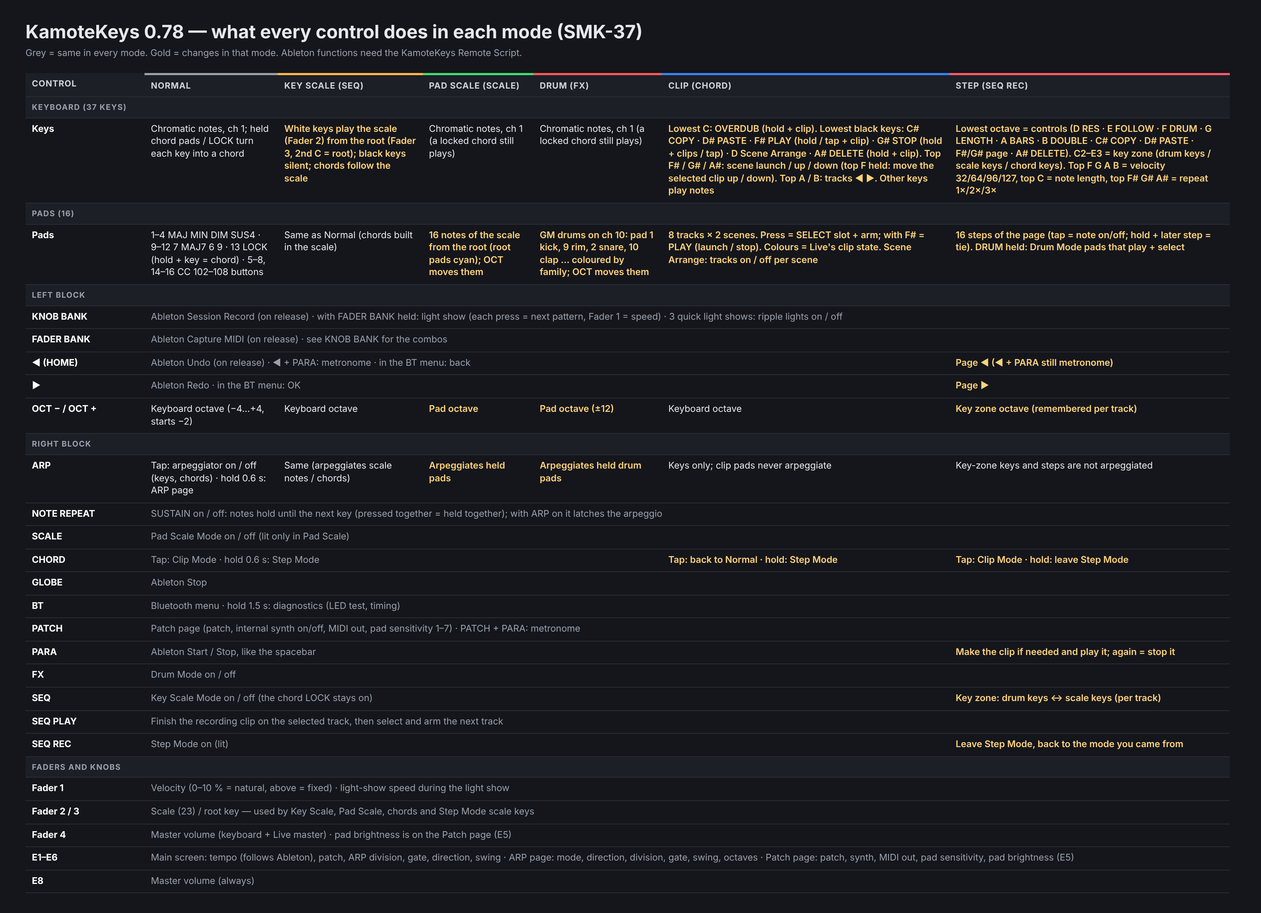
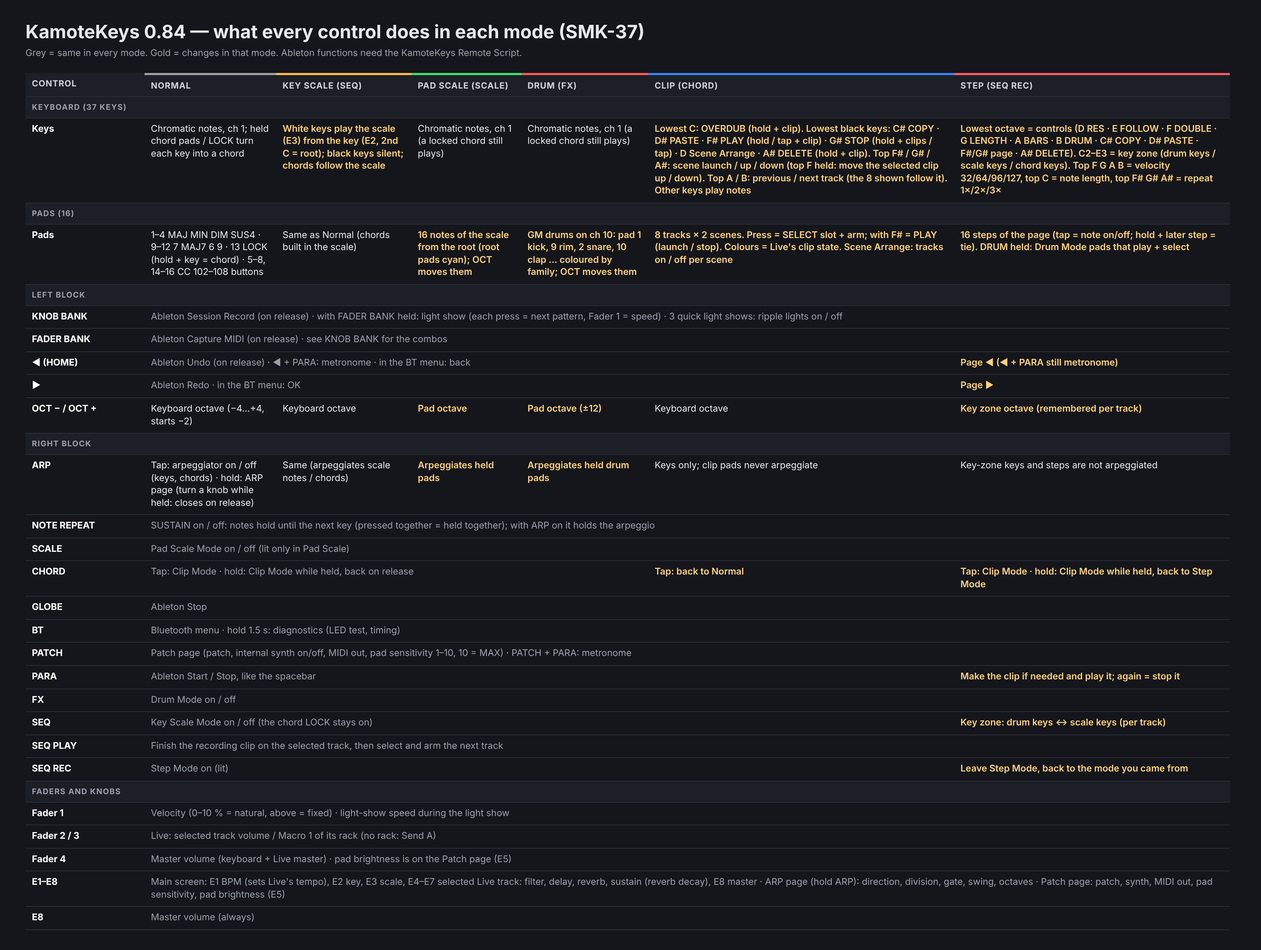
Docs for 0.80-0.84: knobs, faders, hold CHORD, track names, effects, AUTO port
README, HOW_TO_USE, MIDI_MAPPING, ABLETON_REMOTE_SCRIPT, FM1, TESTING,
CHANGELOG and the SMK-37 diagrams.

Claude-Session: https://claude.ai/code/session_014nKCDtX9z2HT4cnrjTFgfW

diff --git a/README.md b/README.md
@@ -85,12 +85,12 @@ Diagrams: [all controls](docs/diagrams/SMK37-Controls.png) · [every control in 
 
 | Button | Short press | Hold |
 |---|---|---|
-| ARP | ARP on/off | 0.6 s: ARP settings page |
-| NOTE REPEAT | **SUSTAIN** on/off: notes hold until the next key; with ARP on it latches the arpeggio | |
+| ARP | ARP on/off | 0.6 s: ARP settings page. Turn a knob while holding: the page closes on release; let go without turning: it stays open (tap ARP to close) |
+| NOTE REPEAT | **SUSTAIN** on/off: notes hold until the next key; with ARP on it holds the arpeggio | |
 | SCALE | Pad Scale Mode on/off | |
-| CHORD | **Clip Mode** on/off (8 × 2 Ableton clip launcher) | 0.6 s: **Step Mode** (same as SEQ REC) |
+| CHORD | **Clip Mode** on/off (8 × 2 Ableton clip launcher) | **Clip Mode while held**: back to the previous mode on release (also after a quick CHORD + pad) |
 | GLOBE | Ableton **Stop** (CC 21) | |
-| BT | Open/close the Bluetooth menu | 1.5 s: diagnostics |
+| BT | Open/close the Bluetooth menu | 1.5 s: diagnostics (incl. the battery reading) |
 | PATCH | Open/close the patch page | |
 | PARA | Ableton **Start / Stop**, like the spacebar (CC 23). In Step Mode: make the clip and play / stop it | |
 | PATCH + PARA (or ◀ + PARA) | Ableton **metronome** on/off (CC 26) | |
@@ -100,7 +100,7 @@ Diagrams: [all controls](docs/diagrams/SMK37-Controls.png) · [every control in 
 | SEQ REC | **Step Mode** on/off (drum step sequencer) | |
 | KNOB BANK | Ableton **Session Record** (CC 25, sent on release) | |
 | FADER BANK | Ableton **Capture MIDI** (CC 22, sent on release) | |
-| KNOB BANK + FADER BANK | **Light show** while held; each new press = next pattern | 3 quick presses: **ripple lights** on/off |
+| KNOB BANK + FADER BANK | **Light show** while held; each new press = next pattern | 3 quick presses: **ripple lights** on/off (a giant ring from the middle when they turn on) |
 | ◀ LEFT (HOME) | Ableton **Undo** (CC 24, sent on release so ◀ + PARA can toggle the metronome). In the BT menu: HOME (back) | |
 | RIGHT ▶ | Ableton **Redo** (CC 27). In the BT menu: SAVE (OK) | |
 | OCT − / OCT + | Octave −4 … +4. Keyboard starts at **−2**; in Pad Scale/Drum Mode they move the pad octave (starts at 0) | |
@@ -112,8 +112,8 @@ All Ableton commands are on **MIDI channel 15**. The pad map and the button-inde
 | Fader | Function |
 |---|---|
 | 1 | **Velocity.** 0–10 %: natural key/pad velocity. Above 10 %: fixed velocity proportional to position, 100 % = 127. Applies to keys, Key Scale, Pad Scale, Drum pads and ARP. It is read at Note On only and never changes sounding notes or Note Off. **During the light show:** its speed. |
-| 2 | **Scale** (23 scales, bottom = Major, top = Minor 6-Diminished), with 2-count hysteresis against ADC noise. |
-| 3 | **Root key** C … B, with hysteresis. |
+| 2 | **Live: volume of the selected track** (CC 38, needs the Remote Script; top = 0 dB). |
+| 3 | **Live: Macro 1** of the selected track's first device when it is a rack, otherwise its **Send A** (CC 39). |
 | 4 | **Master volume** (0.77): the keyboard's internal sound and, with the Remote Script, Live's master track (top = 0 dB). The E8 knob also sets the internal master. **Pad brightness** is on the Patch page (E5, 16 steps, saved; ≤ 10 % also dims the LCD). |
 
 Scales: Major, Natural Minor, Dorian, Phrygian, Lydian, Mixolydian, Locrian, Harmonic Minor, Melodic Minor, Major Pentatonic, Minor Pentatonic, Blues, Phrygian Dominant, Double Harmonic, Hirajoshi, Whole Tone, Diminished Whole-Half, Diminished Half-Whole, Bebop Dominant, Bebop Major, Bebop Minor, 6-Diminished, Minor 6-Diminished. One shared engine ([`kk_theory.c`](core/kamotkeys/kk_theory.c)) serves the keys, pads, chords, LEDs and display.
@@ -162,15 +162,15 @@ The **second physical C** plays the selected tonic, at octave 0 the tonic in the
 
 ### Clip Mode (CHORD)
 
-Pads 1–8 launch clip 1 and pads 9–16 clip 2 of Live tracks 1–8, on channel 16, with LEDs that follow Live (empty very dim, stopped dim blue, playing green, queued blinking amber, recording red). Needs the [KamoteKeys Remote Script](docs/ABLETON_REMOTE_SCRIPT.md). A plain pad press **selects** the slot and arms its track (so KNOB BANK records there); **F#** is **PLAY**: hold it and press clips to launch / stop them, or tap it and the next clip pressed is launched. Hold the **top F** + top G# / A# to move Live's selected clip a scene up / down. Hold the **lowest C** + a clip to **overdub** into it. Lowest black keys: **C# COPY**, **D# PASTE** (tap = next pad, hold = several), F# PLAY, **G# STOP** (hold + clips, or tap: the selected clip), **A# DELETE** (hold + clip); low **D = Scene Arrange** (tap pads to choose which tracks play in each scene; top F# launches exactly those); white **top A / B** move the 8-track view; top **F# / G# / A#** = scene launch / up / down. The screen shows what is copied. Live's highlighted slot is **violet**. Full guide: [docs/ABLETON_REMOTE_SCRIPT.md](docs/ABLETON_REMOTE_SCRIPT.md), [diagram](docs/diagrams/SMK37-Clip-Mode.png).
+Pads 1–8 launch clip 1 and pads 9–16 clip 2 of Live tracks 1–8, on channel 16, with LEDs that follow Live (empty very dim, stopped dim blue, playing green, queued blinking amber, recording red). Needs the [KamoteKeys Remote Script](docs/ABLETON_REMOTE_SCRIPT.md). A plain pad press **selects** the slot and arms its track (so KNOB BANK records there); **F#** is **PLAY**: hold it and press clips to launch / stop them, or tap it and the next clip pressed is launched. Hold the **top F** + top G# / A# to move Live's selected clip a scene up / down. Hold the **lowest C** + a clip to **overdub** into it. Lowest black keys: **C# COPY**, **D# PASTE** (tap = next pad, hold = several), F# PLAY, **G# STOP** (hold + clips, or tap: the selected clip), **A# DELETE** (hold + clip); low **D = Scene Arrange** (tap pads to choose which tracks play in each scene; top F# launches exactly those); white **top A / B** select the previous / next track (the 8-track view follows when the selection leaves it: going left the track becomes the first of the 8, going right the last); top **F# / G# / A#** = scene launch / up / down. **Hold CHORD** from any mode for Clip Mode only while held. The screen shows the clip state, Live's selected track (number and name, big), the scene and the 8 tracks in view, and what is copied; the pad map shows each pad's track number and the start of its name. Live's highlighted slot is **violet**. Full guide: [docs/ABLETON_REMOTE_SCRIPT.md](docs/ABLETON_REMOTE_SCRIPT.md), [diagram](docs/diagrams/SMK37-Clip-Mode.png).
 
-### Step Mode (SEQ REC, or hold CHORD)
+### Step Mode (SEQ REC)
 
-A step sequencer that writes straight into the selected session clip in Live, laid out like Ableton Move: 16 pads = 16 steps per page; the **second octave = drum keys** (C = kick … B): a key plays its sound and selects it for the steps. **OCT −/+** moves those keys by an octave and **SEQ** turns them into scale keys (for melodic tracks); both are remembered per track. The **lowest octave = controls** (white: RESOLUTION, FOLLOW, DRUM, LENGTH + pad = bars, BARS; black: COPY, PASTE, page ◀ ▶, DELETE); **PARA** makes and plays / stops the clip; leaving Step Mode returns to the mode you came from; the key zone runs from C2 to E3; **top F G A B = velocity 32 / 64 / 96 / 127**, **hold the top C** to set the note length on the pads, the **top three black keys = 1× / 2× / 3× repeats** (hold + a pad). A chord locked on the main screen is written into the steps as a chord. Other sounds on a step show as a violet tint; the screen shows the bar the clip is playing. The sequenced track is armed while Step Mode is on. Needs the Remote Script; full guide in [docs/ABLETON_REMOTE_SCRIPT.md](docs/ABLETON_REMOTE_SCRIPT.md#step-mode-drum-step-sequencer-058).
+A step sequencer that writes straight into the selected session clip in Live, laid out like Ableton Move: 16 pads = 16 steps per page; the **second octave = drum keys** (C = kick … B): a key plays its sound and selects it for the steps. **OCT −/+** moves those keys by an octave and **SEQ** turns them into scale keys (for melodic tracks); both are remembered per track. The **lowest octave = controls** (white: RESOLUTION, FOLLOW, DOUBLE (F), LENGTH + pad = bars, BARS, DRUM (B, hold); black: COPY, PASTE, page ◀ ▶, DELETE); **PARA** makes and plays / stops the clip; leaving Step Mode returns to the mode you came from; the key zone runs from C2 to E3; **top F G A B = velocity 32 / 64 / 96 / 127**, **hold the top C** to set the note length on the pads, the **top three black keys = 1× / 2× / 3× repeats** (hold + a pad). A chord locked on the main screen is written into the steps as a chord. Other sounds on a step show as a violet tint; the screen shows the bar the clip is playing. The sequenced track is armed while Step Mode is on. Needs the Remote Script; full guide in [docs/ABLETON_REMOTE_SCRIPT.md](docs/ABLETON_REMOTE_SCRIPT.md#step-mode-drum-step-sequencer-058).
 
 ### Pad Scale Mode (SCALE)
 
-All 16 pads play consecutive scale degrees in pad order (pad 1 = tonic at octave 3, e.g. D3), following Fader 2/3 and the octave buttons. Channel 1. Root pads are **cyan** and the other pads **green**, both dim when idle and bright when pressed. The screen shows the note, root, scale and octave in a 2 × 8 pad map. The keyboard keeps playing chromatically.
+All 16 pads play consecutive scale degrees in pad order (pad 1 = tonic at octave 3, e.g. D3), following the key (E2), the scale (E3) and the octave buttons. Channel 1. Root pads are **cyan** and the other pads **green**, both dim when idle and bright when pressed. The screen shows the note, root, scale and octave in a 2 × 8 pad map. The keyboard keeps playing chromatically.
 
 ### Drum Mode (FX)
 
@@ -182,7 +182,7 @@ All 16 pads send drum notes on **channel 10**. The layout is vertical: pad 1 = 3
 
 - Normal and Key Scale: arpeggiates held keys, including generated chords.
 - Pad Scale: arpeggiates held pads (channel 1). Drum: arpeggiates held drum pads (channel 10).
-- Parameters (ARP page, or the main-screen knobs): **Mode** NORMAL/LATCH, **Direction** UP, DOWN, UP-DOWN, RANDOM, ORDER (as played), **Division** 1/4, 1/8, 1/8T, 1/16, 1/16T, 1/32 (default 1/8), **Gate** 10–100 % (default 75 %), **Swing** 0–50 %, **Octaves** 1–4.
+- Parameters (ARP page: hold ARP): **Direction** UP, DOWN, UP-DOWN, RANDOM, ORDER (as played), **Division** 1/4, 1/8, 1/8T, 1/16, 1/16T, 1/32 (default 1/8), **Gate** 10–100 % (default 75 %), **Swing** 0–50 %, **Octaves** 1–4.
 - Toggling ARP while notes are held moves them safely between direct play and the arpeggiator.
 
 **Sustain** (the NOTE REPEAT button, 0.54): tap to turn it on (LED bright, SUSTAIN in the status line), tap again to turn it off.
@@ -190,7 +190,7 @@ All 16 pads send drum notes on **channel 10**. The layout is vertical: pad 1 = 3
 - Keys **pressed together, or added while others are still held, are sustained together**.
 - Chord-modifier pads (MAJ, MIN, …) do not end the held notes; a mode change or Sustain off releases them.
 - KamoteKeys holds the notes itself, so the synth and Ableton see long notes (no CC 64). A real **sustain pedal** still sends CC 64.
-- **With ARP on**, the same rule latches the arpeggio: it keeps playing after you let go, and the next key or chord replaces it.
+- **With ARP on**, the same rule holds the arpeggio: it keeps playing after you let go, and the next key or chord replaces it. This is the only way to hold an arpeggio (there is no separate LATCH mode).
 
 KamoteKeys turns off the SMK37 OPEN engine's own per-track ARP so that notes are never doubled.
 
@@ -200,14 +200,16 @@ Encoders are numbered E1–E8, left to right; SMK37 OPEN calls them K1–K4, SEL
 
 | Knob | Main screen | ARP page | Patch page | BT menu |
 |---|---|---|---|---|
-| E1 | BPM (30–300) | Mode | Patch | Bluetooth on/off |
-| E2 | Patch (DX7 1–128) | Direction | Internal synth on/off | BT audio on/off |
-| E3 | ARP division | Division | MIDI OUT ports | BLE role DEVICE/HOST |
-| E4 | ARP gate | Gate | Pad sensitivity 1–7 | Clock INT/MIDI |
-| E5 | ARP direction | Swing | | Host list: device |
-| E6 | ARP swing | Octaves | | |
-| E7 | — | | | Action |
+| E1 | BPM (30–300; with Live connected it sets Live's tempo) | — | Patch | Bluetooth on/off |
+| E2 | **Key** (root C … B) | Direction | Internal synth on/off | BT audio on/off |
+| E3 | **Scale** (23 scales) | Division | MIDI OUT ports | BLE role DEVICE/HOST |
+| E4 | **Filter** of the selected Live track (left low-pass, centre open, right high-pass) | Gate | Pad sensitivity 1–10 (10 = MAX, default) | Clock INT/MIDI |
+| E5 | **Delay** amount (selected track) | Swing | Pad brightness | Host list: device |
+| E6 | **Reverb** amount (selected track) | Octaves | | |
+| E7 | **Sustain** = reverb decay (selected track) | | | Action |
 | E8 | **Master volume** (always) | | | |
+
+E4–E7 need the Remote Script. It finds the effects on Live's selected track by type (also inside racks): Auto Filter; Delay, Echo, Ping Pong, Filter, Simple or Grain Delay; Reverb or Hybrid Reverb. The screen shows the new value, or `NO REVERB` etc. when the track has none. Hold **ARP** to edit the ARP settings with the knobs.
 
 Changes on the main screen appear as a short message in the status line.
 
@@ -216,7 +218,7 @@ Changes on the main screen appear as a short message in the status line.
 | | |
 |---|---|
 | ![Bubbles boot](docs/diagrams/SMK37-Boot.gif) | **Bubbles boot** (0.78, ~1.7 s): white piano keys drop in and bounce, flat jewel-coloured bubbles (ruby, amber, gold, emerald, teal, sapphire, indigo, amethyst) pop up behind them, the black keys pop, one colour sweep runs over the keys and "KamoteKeys" pops in letter by letter in warm white. The pads light in the bubble colours. |
-| ![Chord](docs/screenshots/07_main_chord_G7.png) | **Main screen:** version label, mode, octave, BPM, the chord or note name, root and scale, the piano, and ARP/Sustain/velocity status. The piano follows the **actual MIDI note list**: a single note lights one key (green); in a chord the root is cyan and the other tones orange. The view re-centres with a ~110 ms ease-out pixel scroll that can redirect mid-move. Key Scale Mode adds dots for scale degrees. |
+| ![Chord](docs/screenshots/07_main_chord_G7.png) | **Main screen:** version label, battery gauge (a bolt on USB power), mode, octave, BPM, the chord or note name, root and scale, the piano, and ARP/Sustain/velocity status. The piano follows the **actual MIDI note list**: a single note lights one key (green); in a chord the root is cyan and the other tones orange. The view re-centres with a ~110 ms ease-out pixel scroll that can redirect mid-move. Key Scale Mode, and Normal Mode while nothing sounds, mark the scale notes under the keys (root cyan). |
 | ![Pad scale](docs/screenshots/04_pad_scale.png) | **Pad Scale / Drum:** a 2 × 8 pad map with note names or drum labels and live highlights. |
 | ![BT](docs/screenshots/12_bluetooth_menu.png) | **Bluetooth menu:** SMK37 OPEN's standard menu (see below). |
 
@@ -239,7 +241,7 @@ Button LEDs are single-colour on/off LEDs. KamoteKeys adds a **dim** level (1/8 
 - ARP, NOTE REPEAT (Sustain), SCALE, SEQ, FX and CHORD stay bright while their function or mode is active, and **SCALE shows only Pad Scale, SEQ shows only Key Scale**;
 - KNOB BANK and FADER BANK light while pressed or while the light show runs; SEQ REC in Step Mode; BT while its menu is open;
 
-**Ripple lights**: start the light show **three times quickly** (KNOB BANK + FADER BANK, within about 1 s) to toggle them. The pads and keys keep working normally, and every press sends a coloured ring across the pads from where you pressed (keys map left to right onto the pad columns). Not saved.
+**Ripple lights**: start the light show **three times quickly** (KNOB BANK + FADER BANK, within about 1 s) to toggle them; turning them on sends a giant rainbow ring out from the middle. The pads and keys keep working normally, and every press flashes white where you pressed and sends a wide coloured ring (with an inner echo ring) across the pads (keys map left to right onto the pad columns). Not saved.
 
 **Light show** (hold KNOB BANK + FADER BANK together; each new press of the second one selects the next pattern; nothing is sent to Ableton): Rainbow sweep, Vertical pulse, Spiral/perimeter chase, Checkerboard, Diagonal wave, Breathing colours, Opposing chases, Colour wave. While it runs the pads send no MIDI, Fader 1 sets the speed (about 0.03–2 cycles per second; 0 % = 1 per second); brightness follows the Patch page setting. Changing the speed never restarts the pattern.
 
@@ -262,7 +264,7 @@ While the menu is open, ◀ and ▶ do not send Undo/Redo, and their releases ar
 
 | Setting | Behaviour |
 |---|---|
-| **AUTO** (default) | USB if USB MIDI is connected, otherwise BLE. A Mac connected both ways never receives each command twice. |
+| **AUTO** (default) | The port the computer talks on: the one the KamoteKeys Remote Script answers on, else the last port anything arrived on; with no traffic yet, USB if connected, otherwise BLE. A USB cable that only charges does not take the notes away from Bluetooth, and a Mac connected both ways never receives each command twice. |
 | ALL | USB and BLE (and DIN where fitted). |
 | USB / BLE | That port only. |
 
@@ -291,7 +293,7 @@ Note Offs always go to every port, so a port change between Note On and Note Off
 
 ## Saved settings
 
-Saved automatically, about 1.5 s after the last change and only while nothing is playing, in SMK37 OPEN's journaled settings sector: **BPM, ARP on/off, mode, direction, division, gate, swing, octaves, DX7 patch, MIDI OUT ports, internal synth on/off, pad LED timing, pad sensitivity, pad brightness**. The **octave is not saved**: keys start at −2 and pads at 0 on every power-on. Scale, root and velocity come from Faders 1–3; Fader 4 is the master volume. Bluetooth settings are stored by SMK37 OPEN as before.
+Saved automatically, about 1.5 s after the last change and only while nothing is playing, in SMK37 OPEN's journaled settings sector: **BPM, ARP on/off, direction, division, gate, swing, octaves, DX7 patch, MIDI OUT ports, internal synth on/off, pad LED timing, pad sensitivity, pad brightness**. The **octave is not saved**: keys start at −2 and pads at 0 on every power-on. Key and scale (E2 / E3) are not saved: they start at C Major. Velocity comes from Fader 1; Faders 2 / 3 control Live and Fader 4 is the master volume. Bluetooth settings are stored by SMK37 OPEN as before.
 
 ## Build
 

diff --git a/HOW_TO_USE.md b/HOW_TO_USE.md
@@ -45,13 +45,18 @@ Each time you update KamoteKeys, also replace the Remote Script folder and resta
 | **◀ / ▶** | Undo / Redo (◀ + PARA or PATCH + PARA = metronome) |
 | **OCT − / +** | Octave of the keys (or the pads in Pad Scale / Drum) |
 | **Fader 1** | Velocity (bottom 10 % = play dynamics, above = fixed) |
-| **Fader 2 / 3** | Scale / root key |
+| **Fader 2** | Live: volume of the selected track |
+| **Fader 3** | Live: Macro 1 of the selected track's rack (no rack: Send A) |
 | **Fader 4** | **Master volume** (the keyboard and Live's master) |
-| **E1–E6** | Tempo, patch, ARP division, gate, direction, swing |
+| **E1 / E2 / E3** | BPM (Live's tempo when connected) / **key** / **scale** |
+| **E4 – E7** | Selected Live track: **filter** (left low-pass, right high-pass), **delay**, **reverb**, **sustain** (reverb decay) |
 | **E8** | Keyboard master volume |
-| **PATCH** | Patch page: patch, internal synth on/off, MIDI out, pad sensitivity (E4), **pad brightness (E5)** |
-| **ARP** | Arpeggiator on/off (hold: ARP page) |
-| **NOTE REPEAT** | Sustain: notes hold until the next key |
+| **PATCH** | Patch page: patch, internal synth on/off, MIDI out, pad sensitivity (E4, 10 = MAX), **pad brightness (E5)** |
+| **ARP** | Arpeggiator on/off. **Hold**: ARP settings on the knobs (turn while holding: closes on release; let go without turning: stays open) |
+| **NOTE REPEAT** | Sustain: notes hold until the next key (with ARP: holds the arpeggio) |
+| **CHORD** | Clip Mode. **Hold**: Clip Mode only while held |
+
+The effect knobs need the Remote Script and an Auto Filter / Delay (or Echo) / Reverb on the track; the screen says `NO REVERB` etc. if one is missing.
 
 ---
 
@@ -63,7 +68,7 @@ Each time you update KamoteKeys, also replace the Remote Script folder and resta
 - Pads 5–8 and 14–16 are free buttons (CC 102–108) for MIDI-mapping in Live.
 
 ### Play in a scale (Key Scale, SEQ)
-- Press **SEQ**. White keys now play the scale from Fader 2 with the root from Fader 3; the 2nd C is the root. Black keys are silent, so you can't play a wrong note.
+- Press **SEQ**. White keys now play the scale from E3 with the key from E2; the 2nd C is the root. Black keys are silent, so you can't play a wrong note.
 - Chord pads still work and stay in the scale. A locked chord stays on.
 
 ### Pads as notes (Pad Scale, SCALE) and drums (Drum, FX)
@@ -72,7 +77,7 @@ Each time you update KamoteKeys, also replace the Remote Script folder and resta
 
 ### Lights
 - **Light show**: hold **KNOB BANK + FADER BANK** together. Press one of them again for the next pattern; Fader 1 sets the speed.
-- **Ripple lights**: start the light show **three times quickly** to turn ripples on (again to turn them off). Every press then sends a coloured ring across the pads.
+- **Ripple lights**: start the light show **three times quickly** to turn ripples on (again to turn them off). Turning them on sends a big rainbow ring from the middle; every press then flashes and sends a coloured ring across the pads.
 
 ---
 
@@ -91,7 +96,8 @@ Press **CHORD**. The pads are 8 tracks × 2 scenes of Live's Session View, colou
 | delete a clip | hold **A#** and press it |
 | scroll scenes / launch a scene | top **G# / A#** / top **F#** |
 | move the selected clip up / down | hold the **top F** and press top G# / A# |
-| see other tracks | top **A / B** |
+| select the previous / next track | top **A / B** (the 8 tracks shown follow; the screen shows their numbers and names) |
+| use clips quickly from any mode | **hold CHORD**, press pads, let go |
 
 **Build a song from loops (Scene Arrange):** press the low **D**. The two pad rows are two scenes; tap pads to choose which tracks play in each scene (green on, dim off). Launch a scene with the top F#: exactly those tracks play, each with its one clip, so editing a clip changes every scene. Press D again to leave.
 
@@ -114,12 +120,12 @@ Select a track and a slot in Live (or a pad in Clip Mode), then press **SEQ REC*
 |---|---|
 | C# / D# | COPY / PASTE (a step pad, a drum key, or a bar in the bar view) |
 | D / E | RESOLUTION (1/16, 1/8, 1/32, triplets) / FOLLOW (pages follow the playhead) |
-| F (hold) | DRUM: the pads become Drum Mode pads — tap one to hear and select it |
+| F | DOUBLE: the clip twice as long, everything copied |
 | G (hold) + pad n | LENGTH: the clip becomes n bars (the pattern is repeated into new bars) |
 | F# / G# (or ◀ / ▶) | page left / right |
 | A | BARS: the pads show the bars; tap one to show it |
 | A# | DELETE: tap = clear the page; hold + step = clear that step; hold + drum key = remove that sound; in the bar view hold + bar = delete the bar (hold the pad 3 s to only clear it) |
-| B | DOUBLE: the clip twice as long, everything copied |
+| B (hold) | DRUM: the pads become Drum Mode pads — tap one to hear and select it |
 
 ### More
 - **Velocity**: top F G A B = 32 / 64 / 96 / 127 (hold a step + one of them to change that step).
@@ -133,7 +139,7 @@ Select a track and a slot in Live (or a pad in Clip Mode), then press **SEQ REC*
 
 ## 6. Bluetooth
 - On the Mac, connect the keyboard in **Audio MIDI Setup → MIDI Studio → Bluetooth**, then set the KamoteKeys Control Surface Input and Output to that Bluetooth port.
-- Patch page → **MIDI OUT**: AUTO (USB when connected, else Bluetooth), ALL, USB or BLE.
+- Patch page → **MIDI OUT**: AUTO (the port Live talks on; a USB cable that only charges does not count), ALL, USB or BLE.
 
 ## 7. If something doesn't work
 | Symptom | Check |

diff --git a/docs/ABLETON_REMOTE_SCRIPT.md b/docs/ABLETON_REMOTE_SCRIPT.md
@@ -68,13 +68,15 @@ Live talks to the script on **one** MIDI port. In Preferences → Link, Tempo & 
 | **C#** COPY | tap (or hold), then press a clip: it becomes the clipboard (replacing the last one) |
 | **D#** PASTE | tap, then the next pad gets a copy of the clip (Live's Duplicate); hold PASTE to paste into several pads; tap again to cancel |
 | **A#** DELETE | hold + a clip: delete it |
-| **top A / B** (white, 3rd / 2nd from the right) | move the 8-track view one track left / right |
+| **top A / B** (white, 3rd / 2nd from the right) | select the previous / next track. The 8-track view follows when the selection leaves it (left: the track becomes the first of the 8, right: the last) and stops at the ends. No session box is drawn in Live, so Live's window only scrolls to keep the selected track in sight |
 | **G#** | **STOP** (0.77): hold + clips = stop them; a tap stops the selected clip |
 | **D** (white) | **Scene Arrange** on / off (below) |
 | top **F# / G# / A#** | launch the selected scene / scene up / scene down (the 8 × 2 grid scrolls with Live's selected scene) |
 | **SEQ PLAY** (any mode) | **finish & next track** (0.77): ends the recording on the selected track (the clip keeps playing), selects and arms the next track at the same scene |
 
-The screen shows the clipboard (COPIED T3 S2), or COPY: / PASTE: while it waits for a pad, and DELETE while A# is held.
+The screen shows the clip state, **Live's selected track (number and name)**, the scene and the 8 tracks in view, and the clipboard (COPIED T3 S2), or COPY: / PASTE: while it waits for a pad, and DELETE while A# is held. The pad map shows each pad's track number and the first letters of its name. **Hold CHORD** in any mode for Clip Mode only while it is held.
+
+**Mixing the selected track.** Fader 2 = its volume, Fader 3 = Macro 1 of its first rack (else Send A). Knobs E4–E7 = **filter** (Auto Filter: left = low-pass closing, centre = open, right = high-pass), **delay** amount (Delay, Echo, Ping Pong, Filter, Simple or Grain Delay: Dry/Wet), **reverb** amount (Reverb or Hybrid Reverb: Dry/Wet) and **sustain** (the reverb's Decay). The script looks at the track's devices and one level inside racks; the screen shows the new value or `NO DELAY` etc.
 
 **Scene Arrange (low D since 0.77).** The two pad rows are two scenes. Tap a pad to turn that track **on** (green) or **off** (dim orange) in that scene; dark = the track has no clip at all. Each track keeps **one clip**: in a scene it plays its clip from that scene, or else the nearest clip above (then below). **Top F#** launches the selected scene: if that scene has an arrangement, KamoteKeys fires exactly the chosen tracks' clips and stops the other tracks, so editing a clip once changes it in every scene. Scenes you never arranged launch normally. The choice is saved in the Live set. Live's own scene buttons (mouse) do not know about it.
 
@@ -113,7 +115,7 @@ All buttons send 127 on press and 0 on release (KNOB BANK and FADER BANK send on
 
 ## Step Mode: drum step sequencer (0.58)
 
-**Press SEQ REC** (or hold CHORD for 0.6 s; FM-1: hold **LFO**) to enter Step Mode; press SEQ REC again (or hold CHORD) to leave, tap CHORD to go to Clip Mode. It works on Live's **selected track** (ideally with a Drum Rack) and its **selected clip slot**:
+**Press SEQ REC** (FM-1: hold **LFO**) to enter Step Mode; press SEQ REC again to leave, tap CHORD to go to Clip Mode (hold CHORD: Clip Mode while held, then back to Step Mode). It works on Live's **selected track** (ideally with a Drum Rack) and its **selected clip slot**:
 
 - Every step is written straight into that **session clip** (Live 12 note API), so the result is an ordinary MIDI clip you can edit in the piano roll. Notes you add or remove with the mouse show up on the pads.
 - An **empty slot gets a new 1-bar clip** named after the track.
@@ -127,7 +129,7 @@ Colours: see the table below.
 
 | Keys | Do |
 |---|---|
-| lowest octave, white | D = RESOLUTION, E = FOLLOW, F = DRUM (hold), G = LENGTH (hold), A = BARS (tap), B = DOUBLE (0.77); C plays a note |
+| lowest octave, white | D = RESOLUTION, E = FOLLOW, F = DOUBLE, G = LENGTH (hold), A = BARS (tap), B = DRUM (hold); C plays a note |
 | lowest octave, black | C# = COPY, D# = PASTE, F# / G# = page ◀ / ▶, A# = DELETE (tap: the page; hold + step / bar / key) |
 | **key zone**: C2 up to E3 (17 keys) | drum keys: 17 sounds from C1 (kick, rim, snare, clap …); with SEQ: scale keys; with a locked chord: chord keys |
 | top F G A B | velocity 32 / 64 / 96 / 127 |

diff --git a/docs/MIDI_MAPPING.md b/docs/MIDI_MAPPING.md
@@ -112,7 +112,7 @@ Every note has an owner count per channel. If two sources play the same note (fo
 
 Scene keys (Clip Mode: fourth black key = launch, last two black keys = up / down): CC 28 scene down, CC 29 scene up, CC 30 launch selected scene (channel 15, 127 press / 0 release). The script sends CC 104 on channel 16 = first scene shown on the grid.
 
-Tempo from the Remote Script: CC 102 / 103 = Live's tempo × 10 (MSB, LSB). While it arrives, ARP and the internal engine follow Live and the tempo knob is ignored ("TEMPO FOLLOWS ABLETON").
+Tempo from the Remote Script: CC 102 / 103 = Live's tempo × 10 (MSB, LSB). While it arrives, ARP and the internal engine follow Live, and turning E1 changes Live's tempo (channel 15 CC 37, value = 64 + BPM change; the screen shows "LIVE TEMPO").
 
 Feedback from the Remote Script: CC 80–95 = state 0 empty, 1 stopped, 2 playing, 3 queued, 4 recording, 5 queued to record, 6 empty on an armed track; CC 126 = 1 script connected. KamoteKeys sends CC 127 = 127 to request a full update. Channel 16 is never sent to the internal synth.
 
@@ -136,7 +136,25 @@ Channel 14 never reaches the internal synth.
 
 **Copy / paste (0.65).** Keyboard → Live: channel 16 notes 100 / 101 = Clip Mode COPY / PASTE (press / release); in Step Mode COPY / PASTE are the channel 14 function notes 67 / 77. Live → keyboard, channel 16: CC 106 = clipboard kind (0 none, 1 clip, 2 step, 3 sound, 4 bar; +32 copy waiting, +64 paste waiting), CC 107 / 108 = its numbers (clip: track, scene; step: step, page; sound: note, page; bar: bar).
 
-**0.66:** channel 16 note 102 = Scene Arrange on / off; channel 15 CC 31 / 32 = track view left / right; Live → keyboard channel 16 CC 109 = first track shown, CC 110 = Scene Arrange on, clip state codes 7 / 8 / 9 = arranged track on / off / no clip. Step Mode CC 127 = 127 is repeated every 2 s on every port (heartbeat).
+**0.66:** channel 16 note 102 = Scene Arrange on / off; channel 15 CC 31 / 32 = previous / next track (selects the track; the 8-track view follows when the selection leaves it); Live → keyboard channel 16 CC 109 = first track shown, CC 110 = Scene Arrange on, clip state codes 7 / 8 / 9 = arranged track on / off / no clip. Step Mode CC 127 = 127 is repeated every 2 s on every port (heartbeat).
+
+**Selected track and tempo, channel 15 (keyboard → Live):**
+
+| CC | Control | Value |
+|---|---|---|
+| 37 | E1 with Live connected | 64 + BPM change (relative) |
+| 38 | Fader 2 | selected track volume, 0–127 (127 = 0 dB) |
+| 39 | Fader 3 | Macro 1 of the selected track's first rack, else its Send A, 0–127 |
+| 40 / 41 / 42 / 43 | E4 / E5 / E6 / E7 | selected track's filter / delay amount / reverb amount / reverb decay, relative: 64 + knob steps |
+
+**Track names and effect values, channel 16 (Live → keyboard):**
+
+| CC | Meaning |
+|---|---|
+| 111 | start a track name: 0–7 = the 8 tracks shown, 8 = Live's selected track |
+| 112 | next character of that name (ASCII 32–126, at most 12) |
+| 113 | Live's selected track number (1 based, 0 = none) |
+| 114–117 | new position of the effect E4–E7 just changed, 0–126 (filter: 63 = open, lower = low-pass, higher = high-pass); 127 = the track has no such device |
 
 ## Notes received from the host
 

diff --git a/CHANGELOG.md b/CHANGELOG.md
@@ -1,5 +1,35 @@
 # Changelog
 
+## KamoteKeys 0.84 (development snapshot)
+
+- **No more session box in Live.** Live scrolled its window to the box and back on every move (snapping to tracks 4 / 1, keeping the middle in view). Now Live only scrolls to keep the selected track in sight.
+- **MIDI OUT AUTO follows the port Live talks on** (the Remote Script's port, else the last port anything arrived on). A USB cable that only charges no longer takes the notes away from Bluetooth.
+- Normal Mode with nothing sounding marks the chosen scale on the piano.
+
+## KamoteKeys 0.83 (development snapshot)
+
+- Moving scenes keeps Live's selected track inside the 8-track view.
+
+## KamoteKeys 0.82 (development snapshot)
+
+- **E4–E7 = effects of the selected Live track:** filter (left low-pass, right high-pass), delay, reverb, sustain (reverb decay). The Remote Script finds Auto Filter, Delay / Echo …, Reverb / Hybrid Reverb, also inside racks.
+- **ARP settings: hold ARP.** Turn a knob while holding and the page closes on release; let go without turning and it stays open.
+
+## KamoteKeys 0.81 (development snapshot)
+
+- **Track names on the screen.** Clip Mode shows Live's selected track big (number and name), the scene and the 8 tracks in view; the pad map shows real track numbers and names. The clip state is smaller and the key / scale bar slimmer.
+- **Top A / B select the previous / next track**; the 8-track view follows and stops at the last track.
+
+## KamoteKeys 0.80 (development snapshot)
+
+- **New knob and fader layout:** E1 BPM, E2 key, E3 scale, E8 master; Fader 2 = selected track volume, Fader 3 = its Macro 1 (else Send A).
+- **Hold CHORD = Clip Mode while held**, back to the previous mode on release. Step Mode is on SEQ REC only.
+- **Step Mode:** DRUM on B, DOUBLE on F.
+- **Pad sensitivity up to 10 (MAX, the new default).**
+- Battery gauge in the screen header; the last note name stays readable after release.
+- Bigger ripple lights, and a giant centre ripple when they turn on.
+- **Fixed:** with ARP on, notes kept sounding without Sustain and came back when Sustain was turned off (the old LATCH mode). LATCH is gone: Sustain holds the arpeggio.
+
 ## KamoteKeys 0.78 (development snapshot)
 
 - **New startup colours: Jewel.** The Bubbles startup now uses ruby, amber, gold, emerald, teal, sapphire, indigo and amethyst, and the name "KamoteKeys" pops in in warm white.

diff --git a/docs/TESTING.md b/docs/TESTING.md
@@ -84,7 +84,7 @@ node tests/integration/sim_test.mjs simulator.wasm build/host
 | Pad Scale: 16 notes, root highlight, ARP, Note Off | 16 on/16 off; pad 1 = D3, pad 8 = D4; root cyan / others green; ARP alternates held pads | ✅ |
 | Drum: mapping, pad 1 = 36, octave, ARP, colours | full table; 48 at +1, 24 at −1, off-range disabled; kick red, hi-hat yellow; drum ARP on channel 10 only | ✅ |
 | Fader 1 threshold and speed override | 9 % natural, 100 % = 127, mid ≈ 64; REC held: 0 % = half max, ~10 % very slow, velocity restored after release | ✅ |
-| Fader 2 / 3 selection and hysteresis | ends = Major / Minor 6-Diminished, C / B; ≤ 1 change while dithering ±1 count at a boundary | ✅ |
+| Faders 2 / 3 and knobs E2 / E3 / E4–E7 | Faders 2 / 3 send CC 38 / 39 and leave the scale alone; E2 = key, E3 = scale; E4–E7 send relative CC 40–43 and leave ARP and patch alone; Remote Script finds Auto Filter / Delay / Reverb (also in racks), LP ↔ HP filter, `127` without a device | ✅ |
 | Fader 4 brightness, zero brightness | 0 % = every pad 0 even when pressed; 100 % = peak; 50 % ≈ half; spare idle ≈ 4 %; LCD dim flag at ≤ 10 % | ✅ |
 | Display: labels, chord names, root/scale, octave, centring, transitions | 17 chord-naming cases plus inversion and single note; screenshots of every page; piano scroll mid/end frames | ✅ |
 | BPM and ARP restored; octave resets to 0 | settings round-trip (host); **integration: deferred flash save, simulated power cycle, BPM 126 and ARP restored, octave 0** | ✅ |

diff --git a/docs/FM1.md b/docs/FM1.md
@@ -63,7 +63,7 @@ The FM-1's right-hand block of 2 × 6 buttons matches the SMK-37's, so each butt
 |---|---|---|
 | OCT − / OCT + | octave of the playing zone (Pad Scale and Drum keep their own octave) | while pressed |
 | FX | tap: **ARP** on/off; hold 0.6 s: ARP settings | while ARP is on |
-| SEL | **Sustain** on/off: released notes keep sounding until the next key; keys pressed together are held together; with ARP on it latches the arpeggio | while sustain is on |
+| SEL | **Sustain** on/off: released notes keep sounding until the next key; keys pressed together are held together; with ARP on it holds the arpeggio | while sustain is on |
 | ENV | **Pad Scale** Mode on/off | in Pad Scale |
 | LFO | **Clip Mode** on/off | in Clip Mode |
 | EDIT | Ableton **Stop** (CC 21) | while pressed |
